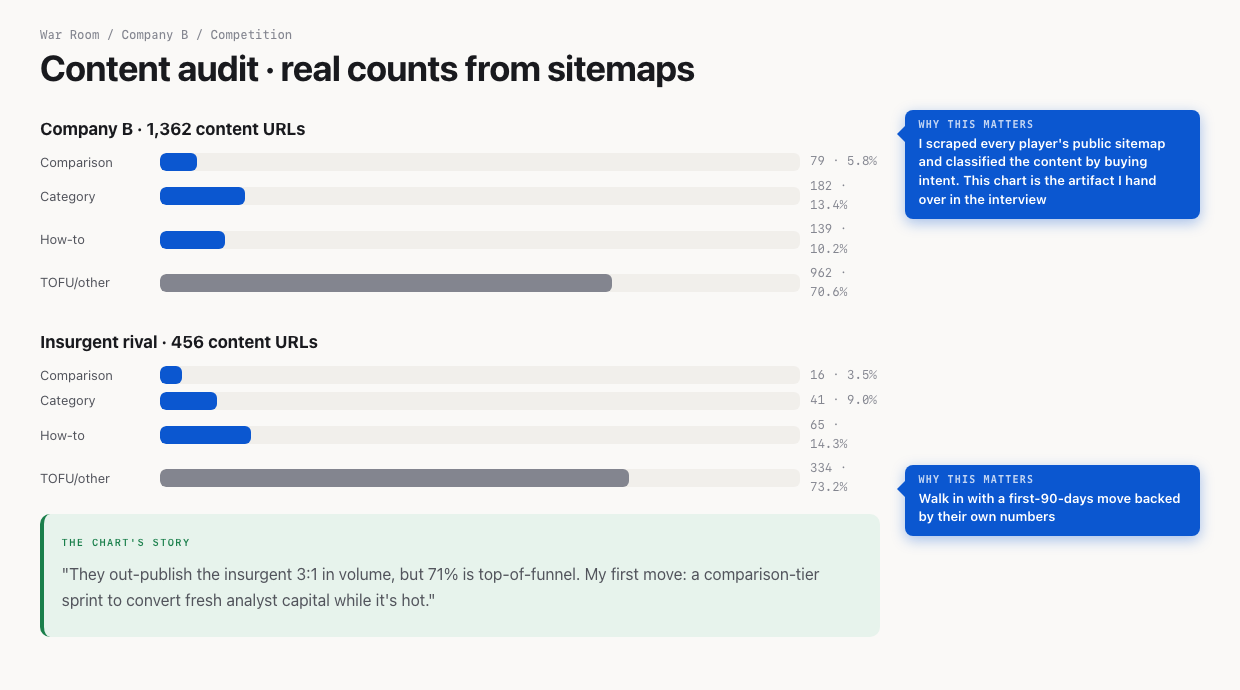
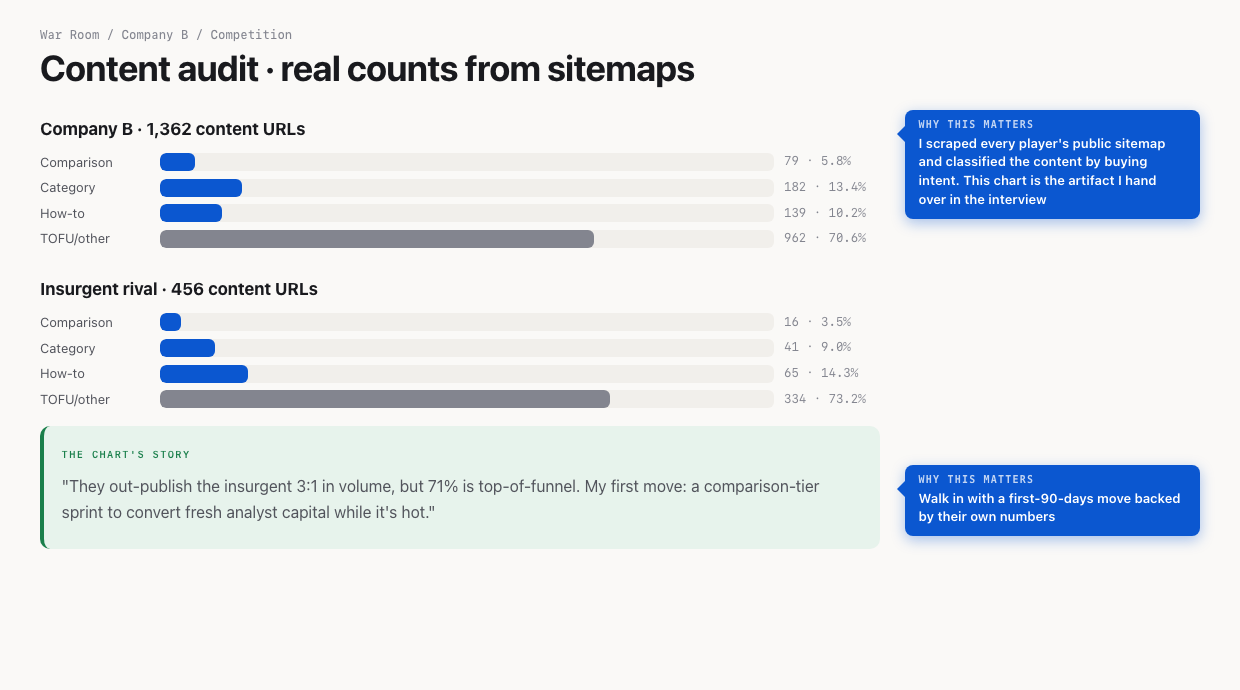
Fix link previews, add breadcrumbs, refresh positioning
- Generate 1200x630 OG banners per post; portrait image was being dropped
  by LinkedIn/WhatsApp/Slack, killing the whole preview card
- twitter:card is now summary_large_image with image dimensions and type
- Add breadcrumbs with BreadcrumbList schema across entry and page layouts
- Light section rules on prose h2 so pages read like the homepage
- Rewrite homepage intro: who I am, what I do, availability, interlinked
- Hunting Season renamed with a 301 from the old URL; Github-ing re-dated
- GTM Buddy dated Jan-Aug 2026; open to full-time and consulting
- Footer gains a free tools group linking the open source repos
- Sharpen both service pages to lead with the buyer's problem

diff --git a/_includes/breadcrumbs.html b/_includes/breadcrumbs.html
@@ -1,0 +1,55 @@
+{% comment %}
+Breadcrumbs: visible trail + BreadcrumbList schema.
+Posts sit under Blog. Service pages sit under Consulting. Tag pages sit under Topics.
+Everything else is a direct child of Home.
+{% endcomment %}
+{% assign crumb_parent_name = false %}
+{% if page.layout == 'entry' %}
+  {% assign crumb_parent_name = 'Blog' %}
+  {% assign crumb_parent_url = '/blog/' %}
+{% elsif page.url contains '-consultant' %}
+  {% assign crumb_parent_name = 'Consulting' %}
+  {% assign crumb_parent_url = '/consulting/' %}
+{% elsif page.url contains '/tags/' and page.url != '/tags/' %}
+  {% assign crumb_parent_name = 'Topics' %}
+  {% assign crumb_parent_url = '/tags/' %}
+{% endif %}
+<nav class="breadcrumbs" aria-label="Breadcrumb">
+  <a href="{{ '/' | relative_url }}">Home</a>
+  <span aria-hidden="true">/</span>
+  {% if crumb_parent_name %}<a href="{{ crumb_parent_url | relative_url }}">{{ crumb_parent_name }}</a>
+  <span aria-hidden="true">/</span>
+  {% endif %}<span aria-current="page">{{ page.title }}</span>
+</nav>
+<script type="application/ld+json">
+{
+  "@context": "https://schema.org",
+  "@type": "BreadcrumbList",
+  "itemListElement": [
+    {
+      "@type": "ListItem",
+      "position": 1,
+      "name": "Home",
+      "item": "{{ site.url }}/"
+    }{% if crumb_parent_name %},
+    {
+      "@type": "ListItem",
+      "position": 2,
+      "name": {{ crumb_parent_name | jsonify }},
+      "item": "{{ crumb_parent_url | prepend: site.url }}"
+    },
+    {
+      "@type": "ListItem",
+      "position": 3,
+      "name": {{ page.title | jsonify }},
+      "item": "{{ page.url | prepend: site.url }}"
+    }{% else %},
+    {
+      "@type": "ListItem",
+      "position": 2,
+      "name": {{ page.title | jsonify }},
+      "item": "{{ page.url | prepend: site.url }}"
+    }{% endif %}
+  ]
+}
+</script>

diff --git a/_sass/main.scss b/_sass/main.scss
@@ -484,8 +484,33 @@ td {
   color: var(--color-faint);
 }
 
+.breadcrumbs {
+  font-family: var(--font-mono);
+  font-size: .8rem;
+  color: var(--color-secondary);
+  margin-bottom: 1.25rem;
+}
+
+.breadcrumbs span {
+  margin: 0 .35rem;
+}
+
 .page-header {
   margin-bottom: 2rem;
+}
+
+/* Light rules separate sections, matching the homepage rhythm. */
+.prose > h2 {
+  margin-top: 2.75rem;
+  padding-top: 1.75rem;
+  border-top: 1px solid var(--color-border);
+}
+
+.prose > h2:first-child,
+.prose > hr + h2 {
+  margin-top: 0;
+  padding-top: 0;
+  border-top: 0;
 }
 
 .page-header h1 {

diff --git a/_includes/head.html b/_includes/head.html
@@ -17,7 +17,13 @@
 {% else %}
   {% assign canonical_url = canonical_path | prepend: site.url %}
 {% endif %}
-{% assign social_image_path = page.image | default: '/assets/images/varun-choraria-about.jpeg' %}
+{% if page.image %}
+  {% assign social_image_path = page.image %}
+{% elsif page.layout == 'entry' %}
+  {% assign social_image_path = '/assets/images/og/' | append: page.slug | append: '.png' %}
+{% else %}
+  {% assign social_image_path = '/assets/images/og/default.png' %}
+{% endif %}
 {% if social_image_path contains '://' %}
   {% assign social_image_url = social_image_path %}
 {% else %}
@@ -39,10 +45,15 @@
 <meta property="og:url" content="{{ canonical_url | escape }}">
 <meta property="og:type" content="{% if page.layout == 'entry' %}article{% else %}website{% endif %}">
 <meta property="og:image" content="{{ social_image_url | escape }}">
-<meta property="og:image:alt" content="{% if page.image_alt %}{{ page.image_alt | escape }}{% else %}Portrait of Varun Choraria{% endif %}">
+<meta property="og:image:width" content="{% if page.image %}724{% else %}1200{% endif %}">
+<meta property="og:image:height" content="{% if page.image %}1086{% else %}630{% endif %}">
+<meta property="og:image:type" content="{% if page.image contains '.jpeg' or page.image contains '.jpg' %}image/jpeg{% else %}image/png{% endif %}">
+<meta property="og:image:alt" content="{% if page.image_alt %}{{ page.image_alt | escape }}{% elsif page.image %}Portrait of Varun Choraria{% else %}{{ meta_title | escape }} on varunchoraria.com{% endif %}">
 <meta property="og:site_name" content="{{ site.title | escape }}">
 <meta property="og:locale" content="en_IN">
-<meta name="twitter:card" content="summary">
+<meta name="twitter:card" content="summary_large_image">
+<meta name="twitter:site" content="@vcxcvii">
+<meta name="twitter:creator" content="@vcxcvii">
 <meta name="twitter:title" content="{{ meta_title | escape }}">
 <meta name="twitter:description" content="{{ meta_description | escape }}">
 <meta name="twitter:image" content="{{ social_image_url | escape }}">

diff --git a/_includes/footer.html b/_includes/footer.html
@@ -13,9 +13,18 @@
       <p class="footer-heading">Read</p>
       <nav class="footer-links" aria-label="Reading links">
         <a href="{{ '/blog/' | relative_url }}">blog</a>
-        <a href="{{ '/feed/' | relative_url }}">new posts</a>
         <a href="{{ '/tags/' | relative_url }}">topics</a>
+        <a href="{{ '/feed/' | relative_url }}">new posts</a>
         <a href="{{ '/changelog/' | relative_url }}">site updates</a>
+      </nav>
+    </div>
+    <div class="footer-group">
+      <p class="footer-heading">Free tools</p>
+      <nav class="footer-links" aria-label="Open source tools">
+        <a href="https://github.com/vcxcvii/interview-recon" target="_blank" rel="noopener noreferrer">interview-recon &#8599;</a>
+        <a href="https://github.com/vcxcvii/master-shifu" target="_blank" rel="noopener noreferrer">master-shifu &#8599;</a>
+        <a href="https://github.com/vcxcvii/michealangelo" target="_blank" rel="noopener noreferrer">michealangelo &#8599;</a>
+        <a href="{{ '/side-quests/' | relative_url }}">all side quests</a>
       </nav>
     </div>
     <div class="footer-group">
@@ -30,6 +39,8 @@
       <nav class="footer-links" aria-label="Site links">
         <a href="{{ '/about/' | relative_url }}">about me</a>
         <a href="{{ '/work/' | relative_url }}">my work</a>
+        <a href="{{ '/fun/' | relative_url }}">book, talks, podcast</a>
+        <a href="{{ '/uses-this/' | relative_url }}">what I use</a>
         <a href="{{ '/disclaimer/' | relative_url }}">disclaimer</a>
         <a href="https://github.com/vcxcvii/vcxcvii.github.io/blob/main/DESIGN.md" target="_blank" rel="noopener noreferrer">site design</a>
         <a href="https://github.com/vcxcvii/vcxcvii.github.io" target="_blank" rel="noopener noreferrer">site code &#8599;</a>

diff --git a/_layouts/home.html b/_layouts/home.html
@@ -6,11 +6,10 @@ layout: default
   <img class="home-portrait" src="{{ '/assets/images/hero-photo.jpg' | relative_url }}" alt="Portrait of Varun Choraria" width="168" height="168" decoding="async">
   <div class="home-intro-copy">
     <h1>Hi, I'm Varun Choraria.</h1>
-    <p>VC for short. I build resilient revenue engines for internet businesses from Bangalore, India.</p>
-    <p>On the side, I'm building <a href="{{ grow_and_close.link }}" target="_blank" rel="noopener noreferrer">{{ grow_and_close.name }}</a>, a {{ grow_and_close.description | replace: 'Senior-led', 'senior-led' }}</p>
-    <p>This is my public notebook. I write opinionated essays about AI, GTM, careers, management, and whatever else seems worth saying.</p>
-    <p>AI agents can read it too. Start with the <a href="{{ '/mcp/' | relative_url }}">MCP page</a>.</p>
-    <p>If you want to talk, <a href="https://cal.com/varun-choraria/30min" target="_blank" rel="noopener noreferrer">book 30 minutes on my calendar</a>.</p>
+    <p>VC for short. I'm a B2B SaaS marketing operator in Bangalore, India. For about a decade I've built pipeline, positioning, and product marketing at <a href="{{ '/work/' | relative_url }}">Freshworks, Vymo, and GTM Buddy</a>, and I now do that work as a <a href="{{ '/consulting/' | relative_url }}">consultant</a> through <a href="{{ grow_and_close.link }}" target="_blank" rel="noopener noreferrer">{{ grow_and_close.name }}</a>, a {{ grow_and_close.description | replace: 'Senior-led', 'senior-led' }}</p>
+    <p>I'm all-in on agentic AI: one-person marketing teams running a swarm of agents. I build that way now, and the <a href="{{ '/side-quests/' | relative_url }}">tools I ship</a> are open source.</p>
+    <p><strong>Open to full-time roles and consulting engagements.</strong> If you're building something in AI or B2B, <a href="https://cal.com/varun-choraria/30min" target="_blank" rel="noopener noreferrer">book 30 minutes on my calendar</a>.</p>
+    <p>This is my public notebook: <a href="{{ '/blog/' | relative_url }}">opinionated essays</a> on AI, GTM, careers, and management. AI agents can read it too, via the <a href="{{ '/mcp/' | relative_url }}">MCP page</a>.</p>
     {% include social-links.html %}
   </div>
 </header>

diff --git a/_layouts/entry.html b/_layouts/entry.html
@@ -1,7 +1,8 @@
 ---
 layout: default
 ---
-{% assign article_image_path = page.image | default: '/assets/images/varun-choraria-about.jpeg' %}
+{% capture derived_og %}/assets/images/og/{{ page.slug }}.png{% endcapture %}
+{% assign article_image_path = page.image | default: derived_og | default: '/assets/images/varun-choraria-about.jpeg' %}
 {% if article_image_path contains '://' %}
   {% assign article_image_url = article_image_path %}
 {% else %}
@@ -35,6 +36,7 @@ layout: default
 }
 </script>
 <article class="page-shell">
+  {% include breadcrumbs.html %}
   <header class="page-header">
     <h1>{{ page.title }}</h1>
     <p class="entry-meta">

diff --git a/_layouts/listing.html b/_layouts/listing.html
@@ -2,6 +2,7 @@
 layout: default
 ---
 <article class="page-shell">
+  {% include breadcrumbs.html %}
   <header class="page-header">
     <h1>{{ page.title }}</h1>
     {% if page.intro %}<p class="intro-note">{{ page.intro }}</p>{% endif %}

diff --git a/_layouts/page.html b/_layouts/page.html
@@ -2,6 +2,7 @@
 layout: default
 ---
 <article class="page-shell{% if page.page_class %} {{ page.page_class }}{% endif %}">
+  {% unless page.hide_breadcrumbs %}{% include breadcrumbs.html %}{% endunless %}
   <header class="page-header">
     <h1>{{ page.title }}</h1>
     {% if page.intro %}<p class="intro-note">{{ page.intro }}</p>{% endif %}

diff --git a/_layouts/side-quests.html b/_layouts/side-quests.html
@@ -2,6 +2,7 @@
 layout: default
 ---
 <article class="page-shell">
+  {% include breadcrumbs.html %}
   <header class="page-header">
     <h1>{{ page.title }}</h1>
     {% if page.intro %}<p class="intro-note">{{ page.intro }}</p>{% endif %}

diff --git a/_layouts/tag_archive.html b/_layouts/tag_archive.html
@@ -4,6 +4,7 @@ layout: default
 {% assign none = "" | split: "" %}
 {% assign tagged = site.tags[page.tag] | default: none %}
 <article class="page-shell">
+  {% include breadcrumbs.html %}
   <header class="page-header">
     <h1>{{ page.title }}</h1>
     <p class="intro-note">{{ page.intro | default: page.description }} {{ tagged.size }} essay{% if tagged.size != 1 %}s{% endif %} tagged <strong>{{ page.tag }}</strong>.</p>

diff --git a/_scripts/generate-og.py b/_scripts/generate-og.py
@@ -1,0 +1,124 @@
+#!/usr/bin/env python3
+"""Generate 1200x630 Open Graph banners for every post (and a site default).
+
+Social scrapers (LinkedIn, WhatsApp, Slack, X) want a landscape image around
+1200x630. A portrait image gets cropped badly or dropped entirely, which kills
+the whole preview card. This renders one banner per post using headless Chrome
+so the type matches the site exactly.
+
+Usage:
+    python3 _scripts/generate-og.py            # only missing banners
+    python3 _scripts/generate-og.py --force    # regenerate everything
+"""
+
+import html
+import pathlib
+import re
+import subprocess
+import sys
+import tempfile
+
+ROOT = pathlib.Path(__file__).resolve().parent.parent
+POSTS = ROOT / "_posts"
+OUT = ROOT / "assets" / "images" / "og"
+CHROME = "/Applications/Google Chrome.app/Contents/MacOS/Google Chrome"
+
+TEMPLATE = """<!doctype html><html><head><meta charset="utf-8"><style>
+  * {{ margin: 0; padding: 0; box-sizing: border-box; }}
+  body {{
+    width: 1200px; height: 630px; background: #ffffff;
+    font-family: -apple-system, BlinkMacSystemFont, "Segoe UI", Roboto, sans-serif;
+    padding: 84px 90px; display: flex; flex-direction: column;
+    justify-content: space-between; color: #111111;
+  }}
+  .eyebrow {{
+    font-family: ui-monospace, "SF Mono", Menlo, monospace;
+    font-size: 22px; letter-spacing: 0.14em; text-transform: uppercase;
+    color: #0057ff; font-weight: 600;
+  }}
+  h1 {{
+    font-size: {size}px; line-height: 1.08; letter-spacing: -0.025em;
+    font-weight: 800; max-width: 1010px;
+  }}
+  .foot {{ border-top: 1px solid #dddddd; padding-top: 26px;
+    display: flex; justify-content: space-between; align-items: baseline; }}
+  .name {{ font-size: 27px; font-weight: 700; }}
+  .meta {{ font-size: 22px; color: #666666;
+    font-family: ui-monospace, "SF Mono", Menlo, monospace; }}
+</style></head><body>
+  <p class="eyebrow">{eyebrow}</p>
+  <h1>{title}</h1>
+  <div class="foot">
+    <span class="name">Varun Choraria</span>
+    <span class="meta">{meta}</span>
+  </div>
+</body></html>"""
+
+
+def title_size(title):
+    """Shrink the type as titles get longer so nothing overflows."""
+    n = len(title)
+    if n <= 28:
+        return 96
+    if n <= 45:
+        return 82
+    if n <= 65:
+        return 70
+    return 60
+
+
+def front_matter(path):
+    text = path.read_text(encoding="utf-8")
+    match = re.match(r"---\n(.*?)\n---", text, re.S)
+    if not match:
+        return {}
+    data = {}
+    for line in match.group(1).splitlines():
+        m = re.match(r"^(\w[\w_]*):\s*(.*)$", line)
+        if m:
+            data[m.group(1)] = m.group(2).strip().strip('"').strip("'")
+    return data
+
+
+def render(out_path, title, eyebrow, meta):
+    page = TEMPLATE.format(
+        title=html.escape(title),
+        eyebrow=html.escape(eyebrow),
+        meta=html.escape(meta),
+        size=title_size(title),
+    )
+    with tempfile.NamedTemporaryFile("w", suffix=".html", delete=False) as fh:
+        fh.write(page)
+        tmp = fh.name
+    subprocess.run(
+        [CHROME, "--headless", "--disable-gpu", "--hide-scrollbars",
+         f"--screenshot={out_path}", "--window-size=1200,630", f"file://{tmp}"],
+        check=True, capture_output=True,
+    )
+    pathlib.Path(tmp).unlink(missing_ok=True)
+    print(f"  {out_path.relative_to(ROOT)}")
+
+
+def main():
+    force = "--force" in sys.argv
+    OUT.mkdir(parents=True, exist_ok=True)
+    print("Generating Open Graph banners (1200x630)")
+
+    default = OUT / "default.png"
+    if force or not default.exists():
+        render(default, "Essays on AI, GTM, management and careers",
+               "varunchoraria.com", "notes since 2025")
+
+    for path in sorted(POSTS.glob("*.md")):
+        slug = re.sub(r"^\d{4}-\d{2}-\d{2}-", "", path.stem)
+        out_path = OUT / f"{slug}.png"
+        if out_path.exists() and not force:
+            continue
+        fm = front_matter(path)
+        title = fm.get("title", slug.replace("-", " "))
+        date = (fm.get("date", "") or "")[:10]
+        render(out_path, title, "varunchoraria.com", date)
+
+
+if __name__ == "__main__":
+    main()

diff --git a/about.md b/about.md
@@ -2,6 +2,8 @@
 title: About
 intro: Marketing operator in B2B SaaS, speaker, author, podcast host, and lifelong side-quest enthusiast.
 page_class: about-page
+image: /assets/images/varun-choraria-about.jpeg
+image_alt: Portrait of Varun Choraria
 mcp: true
 ---
 I'm a marketing professional and I've worked in the B2B SaaS space for about a decade now. I'm also a speaker, author, ex-host of a podcast, bodybuilder, and martial artist. I moonlight as a cat dad.
@@ -10,7 +12,9 @@ I'm a marketing professional and I've worked in the B2B SaaS space for about a d
 
 ## Now
 
-I'm a B2B SaaS marketing consultant. I help teams decide what marketing should do next, ship the work, and measure the result in pipeline, revenue, or another business outcome. I work across growth strategy, product marketing, and AI. Most recently, I led marketing at [GTM Buddy](https://gtmbuddy.ai/) (Series A), helping create the Revenue Activation category.
+I'm a B2B SaaS marketing consultant. I help teams decide what marketing should do next, ship the work, and measure the result in pipeline, revenue, or another business outcome. I work across growth strategy, product marketing, and AI. Most recently, I led marketing at [GTM Buddy](https://gtmbuddy.ai/) (Series A) through August 2026, helping create the Revenue Activation category. The [full history is here](/work/).
+
+**I'm open to both full-time roles and consulting engagements.** If you're building something in AI or B2B and want help marketing it, [here's how I work](/consulting/).
 
 I'm all-in on Agentic AI. I believe the future will be one-person marketing teams, running a swarm of agents. GTM motions will be shipped in < 1 day, and scaled and managed with the help of agents. I'm building that way of working now.
 